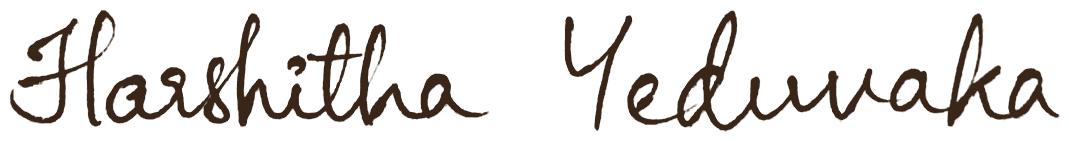
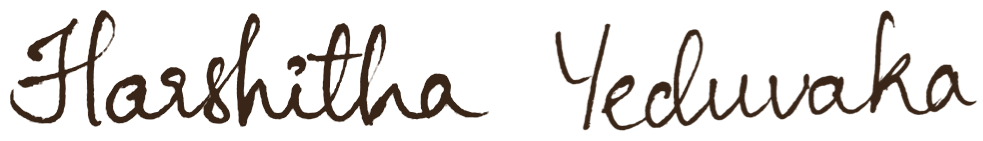
Signature: new handwritten 'Yeduvaka' (Harshitha unchanged)

Changed region(s): [[0.0, 0.0567, 0.5188, 0.9078], [0.5188, 0.0851, 1.0, 0.9362]]

diff --git a/scripts/app.js b/scripts/app.js
@@ -1,8 +1,8 @@
 // app.js — motion orchestration, desk interactions, section rendering.
-import { play, playFile, startMusic, stopMusic, isMuted, setMuted } from "./sound.js?v=20261109p";
+import { play, playFile, startMusic, stopMusic, isMuted, setMuted } from "./sound.js?v=20261109q";
 import {
   meta, about, kit, tools, experience, projects,
-} from "./content.js?v=20261109p";
+} from "./content.js?v=20261109q";
 
 const { gsap, ScrollTrigger, Lenis } = window;
 gsap.registerPlugin(ScrollTrigger);
@@ -126,7 +126,7 @@ function passKit() {
     } else {
       b.innerHTML = `
       <span class="kit__img"><img src="${k.img}" alt="" width="${k.w}" height="${k.h}" loading="lazy" decoding="async" draggable="false" />${
-        k.ink ? `<span class="kit__ink" aria-hidden="true"><span class="kit__sign"><img src="assets/signature.png" alt="" width="1069" height="141" draggable="false" /></span>${
+        k.ink ? `<span class="kit__ink" aria-hidden="true"><span class="kit__sign"><img src="assets/signature.png" alt="" width="983" height="141" draggable="false" /></span>${
           k.ink.lines.map((l) => `<span class="kit__type">${l}</span>`).join("")}</span>` : ""
       }</span>`;
     }
@@ -323,7 +323,7 @@ function passKit() {
   if (chaosInk) {
     const [title, tagline] = kit.find((k) => k.ink).ink.lines;
     chaosInk.innerHTML = `
-      <span class="chaos-ink__name"><img src="assets/signature.png" alt="" width="1069" height="141" draggable="false" /></span>
+      <span class="chaos-ink__name"><img src="assets/signature.png" alt="" width="983" height="141" draggable="false" /></span>
       <span class="chaos-ink__title">${title}</span>
       <span class="chaos-ink__tag">${tagline}</span>`;
   }

diff --git a/index.html b/index.html
@@ -11,7 +11,7 @@
 <link rel="preconnect" href="https://fonts.googleapis.com" />
 <link rel="preconnect" href="https://fonts.gstatic.com" crossorigin />
 <link href="https://fonts.googleapis.com/css2?family=Fraunces:opsz,wght,SOFT@9..144,300..800,50&family=Inter+Tight:wght@400;500;600&family=Martian+Mono:wght@400;500;600&family=Allura&display=swap" rel="stylesheet" />
-<link rel="stylesheet" href="styles/main.css?v=20261109p" />
+<link rel="stylesheet" href="styles/main.css?v=20261109q" />
 <link rel="icon" type="image/png" href="assets/logo-hy.png" />
 
 <!-- JSON-LD -->
@@ -180,6 +180,6 @@
 <script src="vendor/ScrollTrigger.min.js"></script>
 <script src="vendor/lenis.min.js"></script>
 
-<script type="module" src="scripts/app.js?v=20261109p"></script>
+<script type="module" src="scripts/app.js?v=20261109q"></script>
 </body>
 </html>
